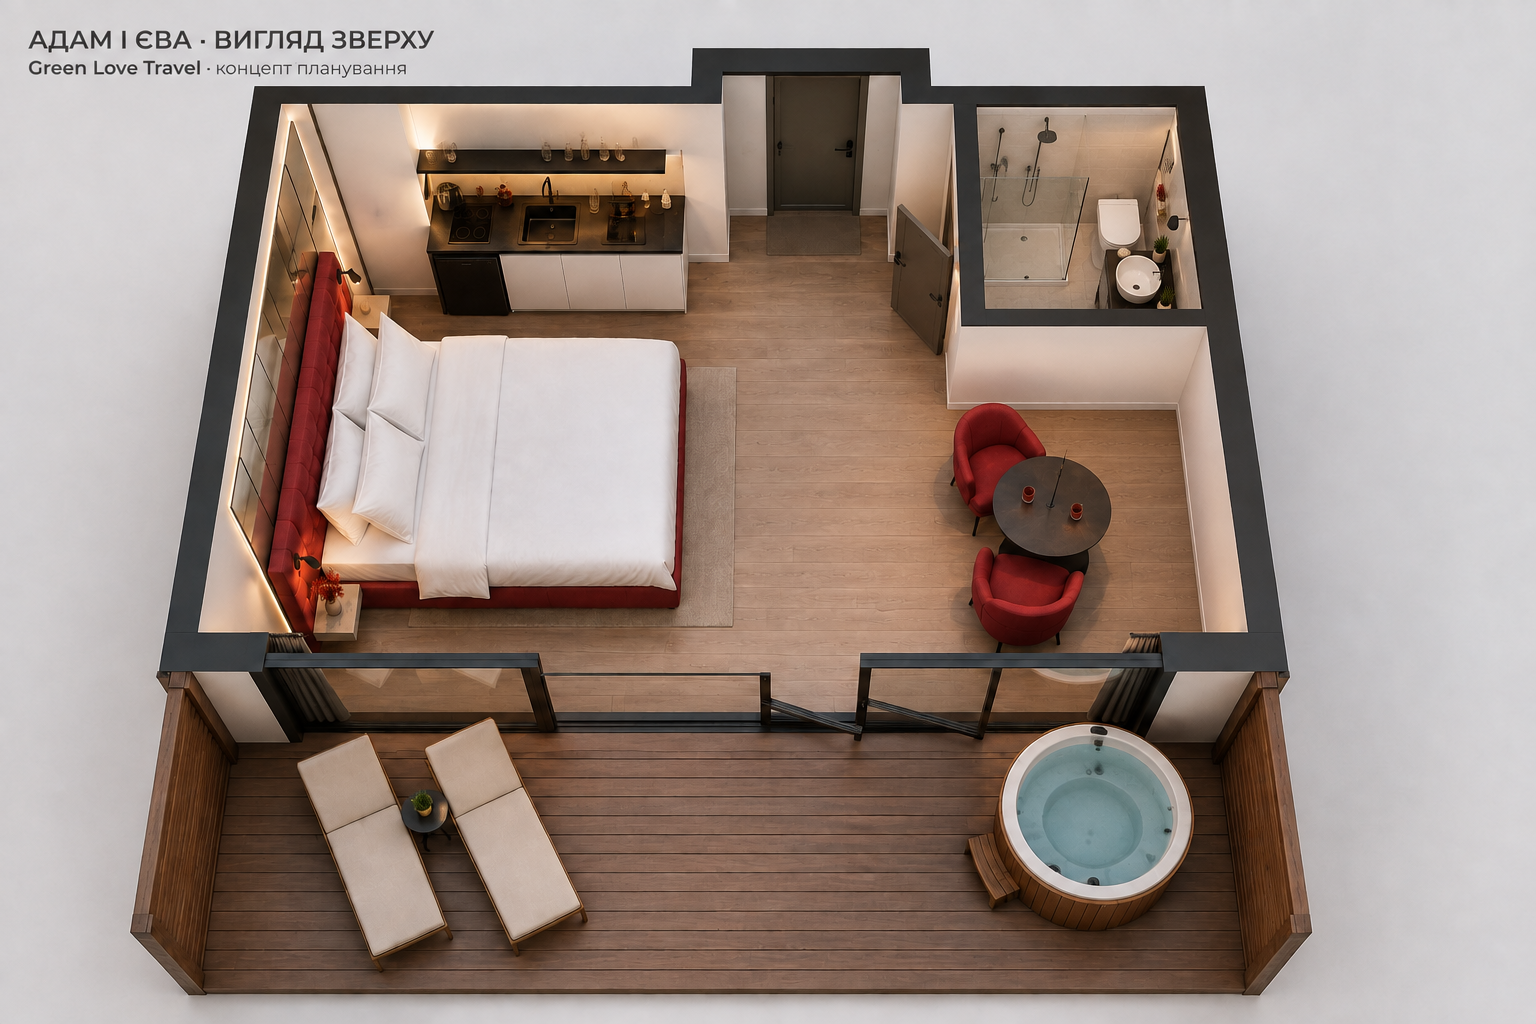
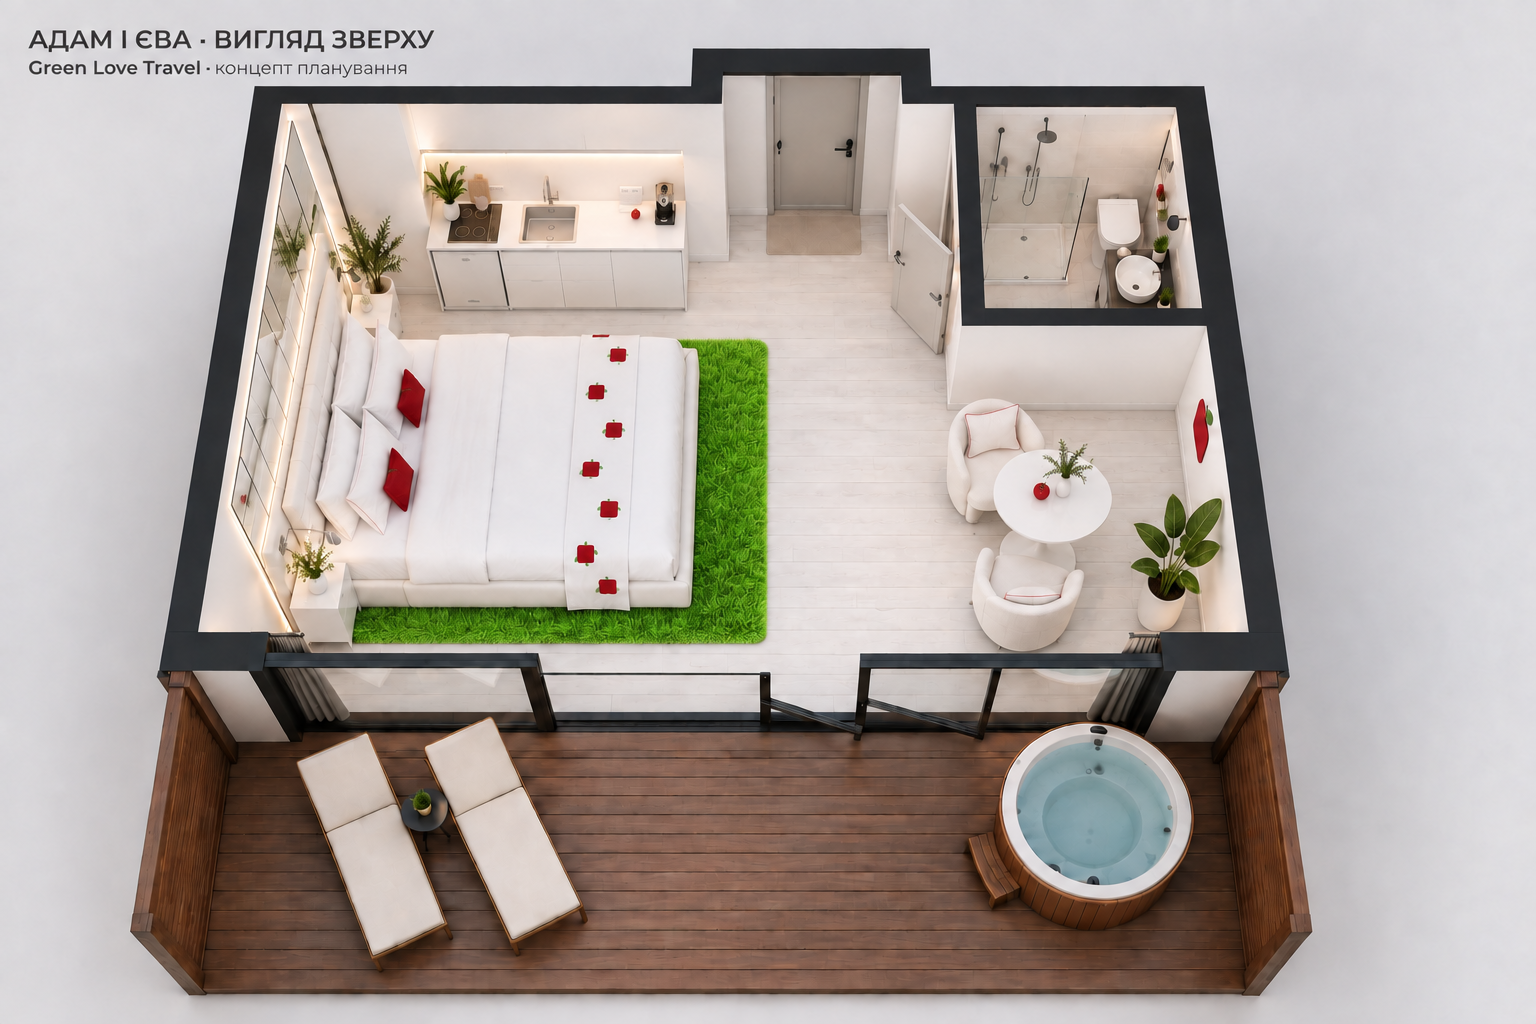
Оновити план Адам і Єва: білий інтер’єр і килим-трава

diff --git a/planning/27_adam_eve_top_view.html b/planning/27_adam_eve_top_view.html
@@ -1,2 +1,3 @@
 <!doctype html>
-<html lang="uk"><meta charset="utf-8"><meta name="viewport" content="width=device-width,initial-scale=1"><title>Адам і Єва · Вигляд зверху</title><style>body{margin:0;background:#f6f3ef;color:#252526;font:18px system-ui}main{max-width:1600px;margin:auto;padding:28px}h1{font-size:36px;margin:12px 0}p{line-height:1.5;color:#5e5858}img{width:100%;height:auto;display:block}a{color:#a61f30}.tag{color:#a61f30;letter-spacing:.12em;font-size:14px;font-weight:700}</style><main><div class="tag">GREEN LOVE TRAVEL · COMFORT №1</div><h1>Адам і Єва · Вигляд зверху</h1><p><strong>Comfort · тільки 2 дорослих · 18+</strong><br>Без дітей і додаткових місць. Необхідний комфорт, доступне виконання, власна тема.</p><p>Студія · кухня · окремий санвузол · вхід · приватна тераса</p><img src="27_adam_eve_top_view.png" alt="Повне об’ємне планування Адам і Єва зверху, зі знятим дахом"><p>Перша планувальна пропозиція · 08.09.2026. <a href="26_adam_eve_concept.html">Інтер’єрний ракурс</a></p></main></html>
+<html lang="uk"><meta charset="utf-8"><meta name="viewport" content="width=device-width,initial-scale=1"><title>Адам і Єва · Вигляд зверху</title><style>body{margin:0;background:#f6f3ef;color:#252526;font:18px system-ui}main{max-width:1600px;margin:auto;padding:28px}h1{font-size:36px;margin:12px 0}p{line-height:1.5;color:#5e5858}img{width:100%;height:auto;display:block}a{color:#a61f30}.tag{color:#a61f30;letter-spacing:.12em;font-size:14px;font-weight:700}</style><main><div class="tag">GREEN LOVE TRAVEL · COMFORT №1</div><h1>Адам і Єва · Вигляд зверху</h1><p><strong>Comfort · тільки 2 дорослих · 18+</strong><br>Без дітей і додаткових місць. Необхідний комфорт, доступне виконання, власна тема.</p><p>Студія · кухня · окремий санвузол · вхід · приватна тераса</p><img src="27_adam_eve_top_view.png" alt="Повне об’ємне планування Адам і Єва зверху, зі знятим дахом"><p>Оновлене оформлення · 09.09.2026. Білі меблі, червоні яблучка, дзеркала, рослини та яскраво-зелений килим із фактурою трави. <a href="26_adam_eve_concept.html">Інтер’єрний ракурс</a></p></main></html>
+

diff --git a/planning/27_adam_eve_top_view.md b/planning/27_adam_eve_top_view.md
@@ -1,16 +1,16 @@
 # «Адам і Єва» — повне планування зверху
 
 **Проєкт:** Green Love Travel · тематичний Comfort №1.
-**Дата:** 08.09.2026
+**Дата:** 09.09.2026
 **Спирається на:** `25_green_love_compact_series.md`, `26_adam_eve_concept.png`; прохання власника показати всю планіровку зверху.
 **Статус:** перший об’ємний вигляд повного планування; розміщення раніше невидимих зон — пропозиція для обговорення, не робоче креслення.
 
 
-**Спільний стандарт Comfort (08.09.2026):** тільки 2 дорослих, 18+, без дітей, додаткових гостей і спальних місць. Необхідне оснащення та доступне серійне виконання; характер теми створюють матеріали, палітра, текстиль і декор у межах спільного бюджету. [Актуальна специфікація](13_comfort_spec.md).
+**Спільний стандарт Comfort (09.09.2026):** тільки 2 дорослих, 18+, без дітей, додаткових гостей і спальних місць. Необхідне оснащення та доступне серійне виконання; характер теми створюють матеріали, палітра, текстиль і декор у межах спільного бюджету. [Актуальна специфікація](13_comfort_spec.md).
 
 ## Просторова схема
 
-- Одна основна кімната; велике червоне ліжко з білою постіллю ліворуч, дзеркальні акценти й місця відпочинку на двох.
+- Одна основна кімната; велике біле ліжко з білою постіллю та червоними подушками ліворуч, дзеркальні акценти й місця відпочинку на двох.
 - Компактна кухня на задній стіні; окремий основний вхід через невелику вхідну зону.
 - Санвузол у задньому правому куті: душ, умивальник і WC; вхід із внутрішнього простору через непрозорі двері.
 - Переднє скління з виходом на терасу; приватна купіль і два лежаки на терасі.
@@ -24,3 +24,9 @@
 ## Генерація
 
 Вбудований imagegen, основа `26_adam_eve_concept.png`. Промпт: майже вертикальний вигляд зверху зі знятим дахом; повністю показати прямокутну студію, ліжко ліворуч, задню кухню й основний вхід, окремий санвузол праворуч, справжні дверні прорізи та повну терасу з купіллю й двома лежаками; зберегти біло-червоні меблі, дзеркала, тепле світло; без людей і заявлених точних розмірів.
+
+## Оновлення оформлення · 09.09.2026
+
+За рішенням власника: біла кімната, біле узголів’я, білі тумби, кухня, столик і два крісла. Червоний — лише в подушках, окантовці й квадратних яблучках із зеленим листочком на текстилі та стіні. Дзеркальні панелі біля узголів’я, рослини в білих кашпо. Під ліжком і навколо його відкритих країв — яскраво-зелений ворсовий килим із фактурою свіжої трави. Це кімнатний килим; конкретний матеріал ще не обрано. Тематичне яблучко не замінює монохромний логотип White.Lev.Travel. Цей вигляд оновлює попереднє оформлення інтер’єрного ракурсу 26.
+
+Генерація оновлення: вбудований imagegen. Промпт: зберегти геометрію й ракурс плану 27, розташування всіх зон, терасу, купіль і два лежаки; перенести погоджений білий інтер’єр, невеликі червоні акценти, квадратні яблучка, дзеркала та рослини. Фінальне уточнення: змінити лише килим на насичений колір свіжої трави з густим ворсом, зберігши решту кадру. Зображення залишається концептом, не розмірним кресленням.
